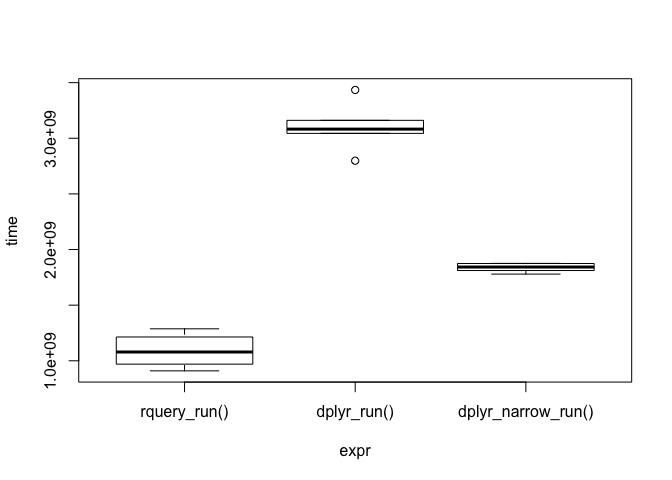
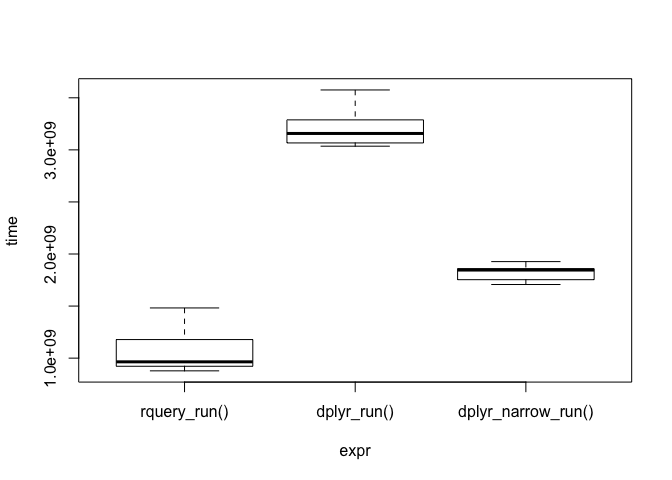
edit

diff --git a/docs/index.html b/docs/index.html
@@ -241,7 +241,7 @@ dq &lt;-<span class="st"> </span>d <span class="op">%.&gt;%</span>
 </tr>
 </tbody>
 </table>
-<p>We see we quickly reproduced the original result using the new database operators. This means such a calculation could easily be performed at a “big data” scale (using a database or <code>Spark</code>; in this case we would not take the results back, but instead use <code>CREATE TABLE tname AS</code> to build a remote materialized view of the results).</p>
+<p>We see we have quickly reproduced the original result using the new database operators. This means such a calculation could easily be performed at a “big data” scale (using a database or <code>Spark</code>; in this case we would not take the results back, but instead use <code>CREATE TABLE tname AS</code> to build a remote materialized view of the results).</p>
 <p>The actual <code>SQL</code> query that produces the result is, in fact, quite involved:</p>
 <div class="sourceCode"><pre class="sourceCode r"><code class="sourceCode r"><span class="kw">cat</span>(<span class="kw"><a href="reference/to_sql.html">to_sql</a></span>(dq, <span class="dt">source_limit =</span> <span class="dv">1000</span>))</code></pre></div>
 <pre><code>SELECT * FROM (
@@ -286,7 +286,7 @@ dq &lt;-<span class="st"> </span>d <span class="op">%.&gt;%</span>
  ) tsql_0004
 ) tsql_0005 ORDER BY `subjectID`</code></pre>
 <p>The query is large, but due to its regular structure it should be very amenable to query optimization.</p>
-<p>A feature to notice is: the query was automatically restricted to just columns actually needed from the source table to complete the calculation. This has the possibility of decreasing data volume and greatly speeding up query performance. Our <a href="https://github.com/WinVector/rquery/blob/master/extras/PerfTest.md">initial experiments</a> show <code>rquery</code> to be almost three times faster than <code>dplyr</code> on a synthetic problem simulating large disk-based queries.</p>
+<p>A feature to notice is: the query was automatically restricted to just columns actually needed from the source table to complete the calculation. This has the possibility of decreasing data volume and greatly speeding up query performance. Our <a href="https://github.com/WinVector/rquery/blob/master/extras/PerfTest.md">initial experiments</a> show <code>rquery</code> to be almost three times faster than <code>dplyr</code> on a synthetic problem simulating large disk-based queries (and even almost two time faster even when the use explicitly narrows to the columns of interest, possibly tracking other overhead issues in collecting the data to memory which is not a part of all big data projects).</p>
 <p>The above optimization is possible because the <code>rquery</code> representation is an intelligible tree of nodes, so we can interrogate the tree for facts about the query. For example:</p>
 <div class="sourceCode"><pre class="sourceCode r"><code class="sourceCode r"><span class="kw"><a href="reference/column_names.html">column_names</a></span>(dq)</code></pre></div>
 <pre><code>## [1] "diagnosis"   "probability" "subjectID"</code></pre>

diff --git a/docs/reference/if_else_block.html b/docs/reference/if_else_block.html
@@ -211,8 +211,8 @@ is a reserved column name for this procedure.</p>
           ) a
        ) b"</span>
  <span class='kw pkg'>DBI</span><span class='kw ns'>::</span><span class='fu'><a href='http://www.rdocumentation.org/packages/DBI/topics/dbGetQuery'>dbGetQuery</a></span>(<span class='no'>my_db</span>, <span class='no'>q</span>)</div><div class='output co'>#&gt;                     r1                   r2
-#&gt; 1 -3277919731728015336 -1930954326379971190
-#&gt; 2   418600780679853725 -4653543773812549642</div><div class='input'>
+#&gt; 1 -6942107743556765639 -4288020797581721168
+#&gt; 2  -113647113677641644  2267309367877039726</div><div class='input'>
 <span class='kw pkg'>DBI</span><span class='kw ns'>::</span><span class='fu'><a href='http://www.rdocumentation.org/packages/DBI/topics/dbDisconnect'>dbDisconnect</a></span>(<span class='no'>my_db</span>)</div></pre>
   </div>
   <div class="col-md-3 hidden-xs hidden-sm" id="sidebar">

diff --git a/extras/PerfTest.md b/extras/PerfTest.md
@@ -26,7 +26,7 @@ for(i in seq_len(nIrrelCol)) {
   dL[[ni]] <- sample(letters, size = nrow(dL), replace = TRUE)
 }
 
-d <- dbi_copy_to(my_db, 'd',
+d <- rquery::dbi_copy_to(my_db, 'd',
                  dL,
                  temporary = TRUE, 
                  overwrite = FALSE)
@@ -46,7 +46,7 @@ d <- NULL
 
 # build new refs
 dT <- sparklyr::spark_read_parquet(my_db, 'dparq', "perf_tmp", memory = FALSE)
-d <- dbi_table(my_db, 'dparq')
+d <- rquery::dbi_table(my_db, 'dparq')
 ```
 
 Define and demonstrate pipelines:
@@ -116,12 +116,12 @@ head(rquery_run())
 ```
 
     ##   subjectID           diagnosis probability
-    ## 1         1 positive re-framing   0.7658456
-    ## 2         2 positive re-framing   0.8940695
-    ## 3         3 withdrawal behavior   0.6163301
-    ## 4         4 positive re-framing   0.5589742
-    ## 5         5 withdrawal behavior   0.7207128
-    ## 6         6 withdrawal behavior   0.8401037
+    ## 1         1 positive re-framing   0.8056518
+    ## 2         2 withdrawal behavior   0.7207128
+    ## 3         3 withdrawal behavior   0.7207128
+    ## 4         4 positive re-framing   0.6163301
+    ## 5         5 positive re-framing   0.7658456
+    ## 6         6 positive re-framing   0.8056518
 
 ``` r
 head(dplyr_run())
@@ -130,12 +130,12 @@ head(dplyr_run())
     ## # A tibble: 6 x 3
     ##   subjectID diagnosis           probability
     ##       <int> <chr>                     <dbl>
-    ## 1         1 positive re-framing       0.766
-    ## 2         2 positive re-framing       0.894
-    ## 3         3 withdrawal behavior       0.616
-    ## 4         4 positive re-framing       0.559
-    ## 5         5 withdrawal behavior       0.721
-    ## 6         6 withdrawal behavior       0.840
+    ## 1         1 positive re-framing       0.806
+    ## 2         2 withdrawal behavior       0.721
+    ## 3         3 withdrawal behavior       0.721
+    ## 4         4 positive re-framing       0.616
+    ## 5         5 positive re-framing       0.766
+    ## 6         6 positive re-framing       0.806
 
 ``` r
 head(dplyr_narrow_run())
@@ -144,12 +144,12 @@ head(dplyr_narrow_run())
     ## # A tibble: 6 x 3
     ##   subjectID diagnosis           probability
     ##       <int> <chr>                     <dbl>
-    ## 1         1 positive re-framing       0.766
-    ## 2         2 positive re-framing       0.894
-    ## 3         3 withdrawal behavior       0.616
-    ## 4         4 positive re-framing       0.559
-    ## 5         5 withdrawal behavior       0.721
-    ## 6         6 withdrawal behavior       0.840
+    ## 1         1 positive re-framing       0.806
+    ## 2         2 withdrawal behavior       0.721
+    ## 3         3 withdrawal behavior       0.721
+    ## 4         4 positive re-framing       0.616
+    ## 5         5 positive re-framing       0.766
+    ## 6         6 positive re-framing       0.806
 
 Get timings:
 
@@ -168,13 +168,13 @@ print(timings)
 
     ## Unit: milliseconds
     ##                expr       min        lq     mean   median       uq
-    ##        rquery_run()  909.5703  969.8015 1091.923 1078.948 1213.966
-    ##         dplyr_run() 2798.4506 3044.2357 3104.139 3082.380 3161.290
-    ##  dplyr_narrow_run() 1779.1346 1811.2692 1836.615 1842.772 1874.550
+    ##        rquery_run()  877.9828  921.8874 1084.964  964.549 1178.351
+    ##         dplyr_run() 3035.3073 3066.5757 3224.544 3157.523 3288.035
+    ##  dplyr_narrow_run() 1707.0174 1753.3946 1818.521 1845.908 1859.348
     ##       max neval
-    ##  1287.327     5
-    ##  3434.339     5
-    ##  1875.350     5
+    ##  1482.051     5
+    ##  3575.279     5
+    ##  1926.936     5
 
 ``` r
 plot(timings)

diff --git a/README.md b/README.md
@@ -145,7 +145,7 @@ dq %.>%
 |          1| withdrawal behavior |    0.6706221|
 |          2| positive re-framing |    0.5589742|
 
-We see we quickly reproduced the original result using the new database operators. This means such a calculation could easily be performed at a "big data" scale (using a database or `Spark`; in this case we would not take the results back, but instead use `CREATE TABLE tname AS` to build a remote materialized view of the results).
+We see we have quickly reproduced the original result using the new database operators. This means such a calculation could easily be performed at a "big data" scale (using a database or `Spark`; in this case we would not take the results back, but instead use `CREATE TABLE tname AS` to build a remote materialized view of the results).
 
 The actual `SQL` query that produces the result is, in fact, quite involved:
 
@@ -197,7 +197,7 @@ cat(to_sql(dq, source_limit = 1000))
 
 The query is large, but due to its regular structure it should be very amenable to query optimization.
 
-A feature to notice is: the query was automatically restricted to just columns actually needed from the source table to complete the calculation. This has the possibility of decreasing data volume and greatly speeding up query performance. Our [initial experiments](https://github.com/WinVector/rquery/blob/master/extras/PerfTest.md) show `rquery` to be almost three times faster than `dplyr` on a synthetic problem simulating large disk-based queries.
+A feature to notice is: the query was automatically restricted to just columns actually needed from the source table to complete the calculation. This has the possibility of decreasing data volume and greatly speeding up query performance. Our [initial experiments](https://github.com/WinVector/rquery/blob/master/extras/PerfTest.md) show `rquery` to be almost three times faster than `dplyr` on a synthetic problem simulating large disk-based queries (and even almost two time faster even when the use explicitly narrows to the columns of interest, possibly tracking other overhead issues in collecting the data to memory which is not a part of all big data projects).
 
 The above optimization is possible because the `rquery` representation is an intelligible tree of nodes, so we can interrogate the tree for facts about the query. For example:
 
